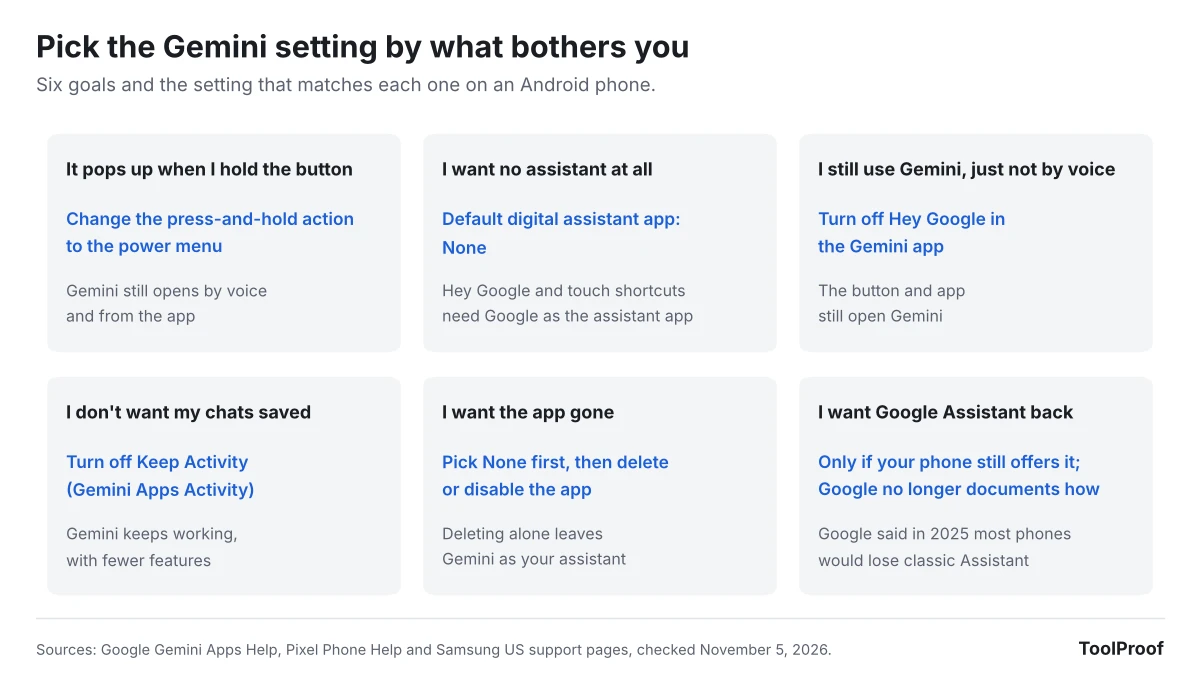
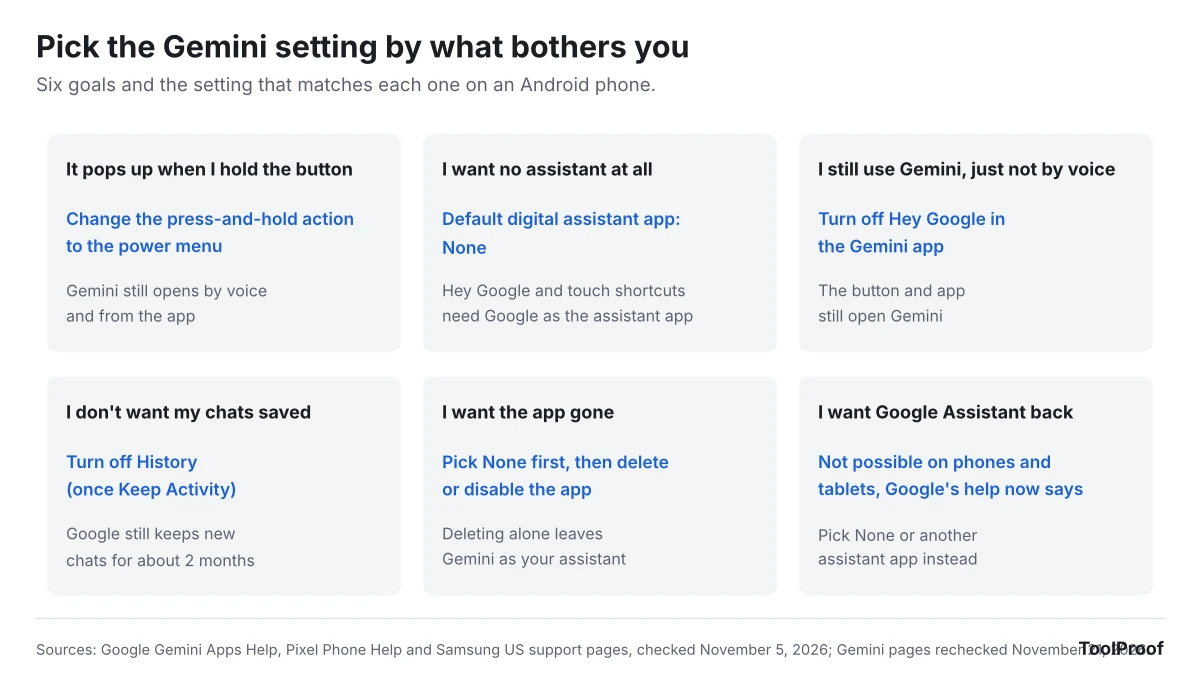
Content: Android Gemini 끄기 글에 Assistant 전환 불가 안내·History 이름 반영
Claude-Session: https://claude.ai/code/session_01WfruajKLVvmgZyZEhwFwwb

diff --git a/apps/ad-blog/experiment/tests/turn-off-gemini-on-android-phone/charts.py b/apps/ad-blog/experiment/tests/turn-off-gemini-on-android-phone/charts.py
@@ -1,7 +1,8 @@
 """Android 휴대폰 Gemini 끄기 글 그래픽 3장 (1200×675 webp).
 
-내용 출처는 factcheck.md (Google·Samsung 도움말, 2026-11-05 UTC 확인). 캡처 원본은
-`screens/help-16938321-2026-11-05.webp` (render_help.cjs: Playwright Chromium, 창 1100px, 2배율).
+내용 출처는 factcheck.md (Google·Samsung 도움말, 2026-11-05 UTC 확인, 2026-11-21 UTC 재확인). 캡처 원본은
+`screens/help-16938321-switch-2026-11-22.png`·`screens/help-16938321-default-2026-11-22.png` (shot.cjs, 2026-11-21 UTC).
+2026-11-05판 캡처 `screens/help-16938321-2026-11-05.webp`(render_help.cjs)는 기록으로 남김.
 실행: python3 -I charts.py <출력 폴더>
 """
 import sys
@@ -57,38 +58,41 @@ def shortcuts():
 
 
 def help_page():
-    """Google 도움말 16938321: 목차의 'Switch from Gemini to Google Assistant' 링크(본문에 절 없음) + Default digital assistant 절"""
-    shot = Image.open(HERE / 'screens/help-16938321-2026-11-05.webp').convert('RGB')
-    toc = shot.crop((100, 455, 1340, 920))
-    default = shot.crop((100, 1555, 1340, 2420))
+    """Google 도움말 16938321 (2026-11-21 UTC 재확인): 새로 생긴 'Switch from Gemini to Google Assistant' 절 + Default digital assistant 절.
+
+    2026-11-05판(목차에만 있고 본문에 절이 없던 화면, screens/help-16938321-2026-11-05.webp)은 기록으로 남김.
+    캡처: ../turn-off-gemini-apps-activity/shot.cjs로 절 단위 (1100px 폭, 2배율).
+    """
+    switch = Image.open(HERE / 'screens/help-16938321-switch-2026-11-22.png').convert('RGB').crop((40, 20, 1485, 200))
+    default = Image.open(HERE / 'screens/help-16938321-default-2026-11-22.png').convert('RGB').crop((40, 0, 1485, 936))
     fig = plt.figure(figsize=cs.FIGSIZE)
-    cs.header(fig, "Google's Gemini help page lists a way back it no longer explains",
-              '"Manage or delete the Gemini app on your Android device", rendered in Chromium on November 5, 2026.')
-    # 왼쪽: 목차
+    cs.header(fig, "Google's Gemini help page now says there's no way back to Assistant",
+              '"Manage or delete the Gemini app on your Android device", rendered in Chromium on November 21, 2026.')
+    # 왼쪽: 새 절
     w1 = 500
-    h1 = w1 * toc.height / toc.width
-    fig.text(36 / 1200, 0.765, 'Contents at the top of the page', fontsize=14, fontweight='bold', color=cs.MUTED)
+    h1 = w1 * switch.height / switch.width
+    fig.text(36 / 1200, 0.765, 'The section at the end of the page', fontsize=14, fontweight='bold', color=cs.MUTED)
     ax1 = fig.add_axes([36 / 1200, 0.73 - h1 / 675, w1 / 1200, h1 / 675])
-    ax1.imshow(toc)
+    ax1.imshow(switch)
     ax1.axis('off')
-    ax1.add_patch(Rectangle((0, 0), toc.width - 1, toc.height - 1, fill=False, edgecolor=cs.BORDER, lw=1.2, zorder=2))
-    ax1.add_patch(Rectangle((50, 240), 610, 56, fill=False, edgecolor=cs.ACCENT, lw=3, zorder=3))
+    ax1.add_patch(Rectangle((0, 0), switch.width - 1, switch.height - 1, fill=False, edgecolor=cs.BORDER, lw=1.2, zorder=2))
+    ax1.add_patch(Rectangle((108, 90), 1040, 66, fill=False, edgecolor=cs.ACCENT, lw=3, zorder=3))
     fig.text(36 / 1200, 0.73 - h1 / 675 - 0.05,
-             'This link points to a section called\n"Switch from Gemini to Google Assistant",\nbut the page has no section with that name.\nThe other seven links all lead somewhere.',
+             'On November 5, 2026, this heading was only\na link in the contents list, with no section\nbehind it. By November 21, Google had added\nthe section with one sentence: you can no\nlonger switch on phones and tablets.',
              fontsize=12.5, va='top', linespacing=1.4)
     # 오른쪽: 기본 어시스턴트 절
-    x2 = 36 + w1 + 44
-    h2 = 415
+    x2 = 36 + w1 + 40
+    h2 = 380
     w2 = h2 * default.width / default.height
     fig.text(x2 / 1200, 0.765, 'What the page offers instead', fontsize=14, fontweight='bold', color=cs.ACCENT)
     ax2 = fig.add_axes([x2 / 1200, 0.73 - h2 / 675, w2 / 1200, h2 / 675])
     ax2.imshow(default)
     ax2.axis('off')
     ax2.add_patch(Rectangle((0, 0), default.width - 1, default.height - 1, fill=False, edgecolor=cs.BORDER, lw=1.2, zorder=2))
-    ax2.add_patch(Rectangle((20, 590), 700, 60, fill=False, edgecolor=cs.ACCENT, lw=3, zorder=3))  # None
-    ax2.add_patch(Rectangle((60, 645), 1160, 105, fill=False, edgecolor=cs.ACCENT, lw=2.5, zorder=3))  # "Google" 설명
-    cs.footer(fig, 'Screenshots: support.google.com/gemini/answer/16938321, Chromium on Linux, November 5, 2026. Boxes added by ToolProof.')
-    cs.save(fig, f'{OUT}/gemini-android-help-page-missing-section.webp')
+    ax2.add_patch(Rectangle((108, 618), 670, 58, fill=False, edgecolor=cs.ACCENT, lw=3, zorder=3))  # None
+    ax2.add_patch(Rectangle((150, 674), 1150, 106, fill=False, edgecolor=cs.ACCENT, lw=2.5, zorder=3))  # "Google" 설명
+    cs.footer(fig, 'Screenshots: support.google.com/gemini/answer/16938321, Chromium on Linux, November 21, 2026. Boxes added by ToolProof.')
+    cs.save(fig, f'{OUT}/gemini-android-no-switch-to-assistant.webp')
 
 
 def which_option():
@@ -97,9 +101,9 @@ def which_option():
         ('It pops up when I hold the button', 'Change the press-and-hold action\nto the power menu', 'Gemini still opens by voice\nand from the app'),
         ('I want no assistant at all', 'Default digital assistant app:\nNone', 'Hey Google and touch shortcuts\nneed Google as the assistant app'),
         ('I still use Gemini, just not by voice', 'Turn off Hey Google in\nthe Gemini app', 'The button and app\nstill open Gemini'),
-        ("I don't want my chats saved", 'Turn off Keep Activity\n(Gemini Apps Activity)', 'Gemini keeps working,\nwith fewer features'),
+        ("I don't want my chats saved", 'Turn off History\n(once Keep Activity)', 'Google still keeps new\nchats for about 2 months'),
         ('I want the app gone', 'Pick None first, then delete\nor disable the app', 'Deleting alone leaves\nGemini as your assistant'),
-        ('I want Google Assistant back', 'Only if your phone still offers it;\nGoogle no longer documents how', 'Google said in 2025 most phones\nwould lose classic Assistant'),
+        ('I want Google Assistant back', "Not possible on phones and\ntablets, Google's help now says", 'Pick None or another\nassistant app instead'),
     ]
     fig = plt.figure(figsize=cs.FIGSIZE)
     cs.header(fig, 'Pick the Gemini setting by what bothers you',
@@ -115,7 +119,7 @@ def which_option():
         ax.text(x + 0.05, y + 0.8, goal, fontsize=13, fontweight='bold', va='top', zorder=2)
         ax.text(x + 0.05, y + 0.6, setting, fontsize=12.5, va='top', color=cs.ACCENT, fontweight='semibold', linespacing=1.3, zorder=2)
         ax.text(x + 0.05, y + 0.3, note, fontsize=11.5, va='top', color=cs.MUTED, linespacing=1.3, zorder=2)
-    cs.footer(fig, DOCS)
+    cs.footer(fig, DOCS[:-1] + '; Gemini pages rechecked November 21, 2026.')
     cs.save(fig, f'{OUT}/gemini-android-which-setting.webp')
 
 

diff --git a/apps/ad-blog/experiment/tests/turn-off-gemini-on-android-phone/factcheck.md b/apps/ad-blog/experiment/tests/turn-off-gemini-on-android-phone/factcheck.md
@@ -49,3 +49,17 @@
 - Android Authority 10월 보도(전환 안내 창에서 거절하면 Assistant 유지): 익명 사용자 보고 기반 → 쓰지 않음
 - Gemini 앱·Android 설정 화면: Android 기기·에뮬레이터 없음 → 메뉴 이름은 Google·Samsung 문서 문장으로만, "we tested" 쓰지 않음
 - Default digital assistant를 None으로 했을 때 전원 버튼의 Digital assistant 동작: 문서에 없음 → 추측하지 않음
+
+## 2026-11-22 재확인 (세션 102, 개선 세션)
+
+2026-11-21 17:50~18:00 UTC(한국 11-22), `turn-off-gemini-apps-activity` 갱신 중 Gemini 도움말 16938321 재렌더링에서 새 절을 발견해 이 글도 고침. 이 폴더의 옛 사본은 `URL:` 머리말이라 `source_diff.cjs`가 비교하지 못함 → `../turn-off-gemini-apps-activity/render.cjs`(`# 원본:` 머리말)로 두 쪽을 새로 저장. 정확성 문제라 검증 기록(V) 없이 고침. 검증 유형 그대로.
+
+| 주장 (글에 쓴 것) | 출처 | 원문 위치 |
+| --- | --- | --- |
+| 16938321 끝에 "Switch from Gemini to Google Assistant" 절이 생겼고 내용은 "You can no longer switch to Google Assistant on phones and tablets." 한 문장 (11-05에는 목차 링크만 있고 절 없음) | support.google.com/gemini/answer/16938321 | `source-gemini-16938321-manage-delete-2026-11-22.txt`, 캡처 `screens/help-16938321-switch-2026-11-22.png` |
+| 같은 쪽의 전원 버튼·Hey Google·잠금 화면·기본 어시스턴트(None, "Google" 표시)·앱 삭제 문장 그대로 | 16938321 | 같은 사본(문장 grep: "Use Gemini without unlocking"·"Talk to Gemini hands-free"·"side button"·"doesn't automatically remove Gemini"), 캡처 `screens/help-16938321-default-2026-11-22.png` |
+| 14554984(Android): Digital assistants from Google > Gemini 단계, "switching back to Gemini", "If the Google app is your default Android assist app", 화면 맥락·위치 권한 단계 그대로 | support.google.com/gemini/answer/14554984 (Android) | `source-gemini-14554984-get-started-2026-11-22.txt` |
+| Keep Activity → History 개명, 메뉴 Gemini History(업데이트 전 계정은 Gemini Apps Activity), 꺼도 새 채팅 약 2개월 보관 | 13278892, 13594961, Google 블로그 2026-11-16 | `../turn-off-gemini-apps-activity/source-gemini-13278892-android-2026-11-22.txt`, `source-blog-google-2026-11-16-updated-controls.txt` |
+
+- 바꾼 것: 설명(157자, 'no longer shows a way back' → 'now says there's no way back'), 둘째 문단, 셋째 문단(재확인 날짜), 'Can you switch back' 절(첫 문장 답 'No, not on a phone or tablet' + 새 문장 인용, 11-05 → 11-21 변화, 14554984 문단 끝), 개인정보 절 History, 상황별 추천 1줄, FAQ 1줄, How we checked 재확인 줄, `updatedAt`. 그림: 도움말 캡처 그림을 새 절 기준으로 다시 그림(`gemini-android-help-page-missing-section.webp` 지우고 `gemini-android-no-switch-to-assistant.webp`), 상황별 카드 그림의 History·Assistant 카드 문구. 대표 이미지·단축키 표 그림 그대로
+- 쓰지 않은 것: Samsung 측면 버튼 안내가 새 주소(ANS10002033)로 옮겨진 것(extlink 이동 200) — 내용을 다시 확인하지 않아 링크는 그대로 둠, 다음 갱신 때
